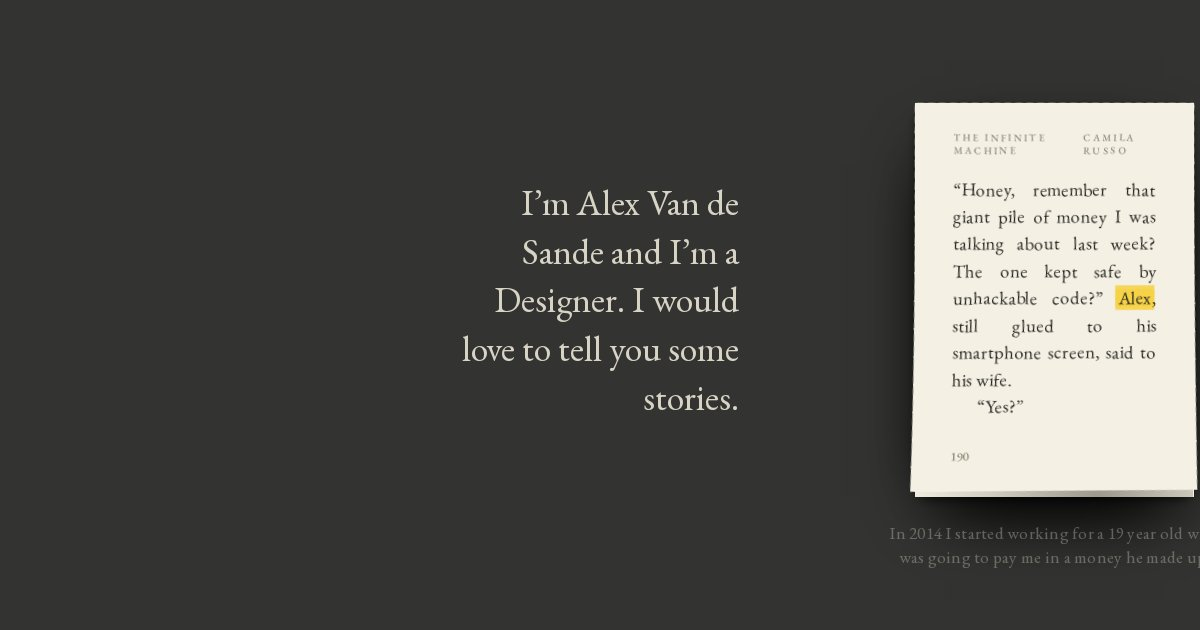
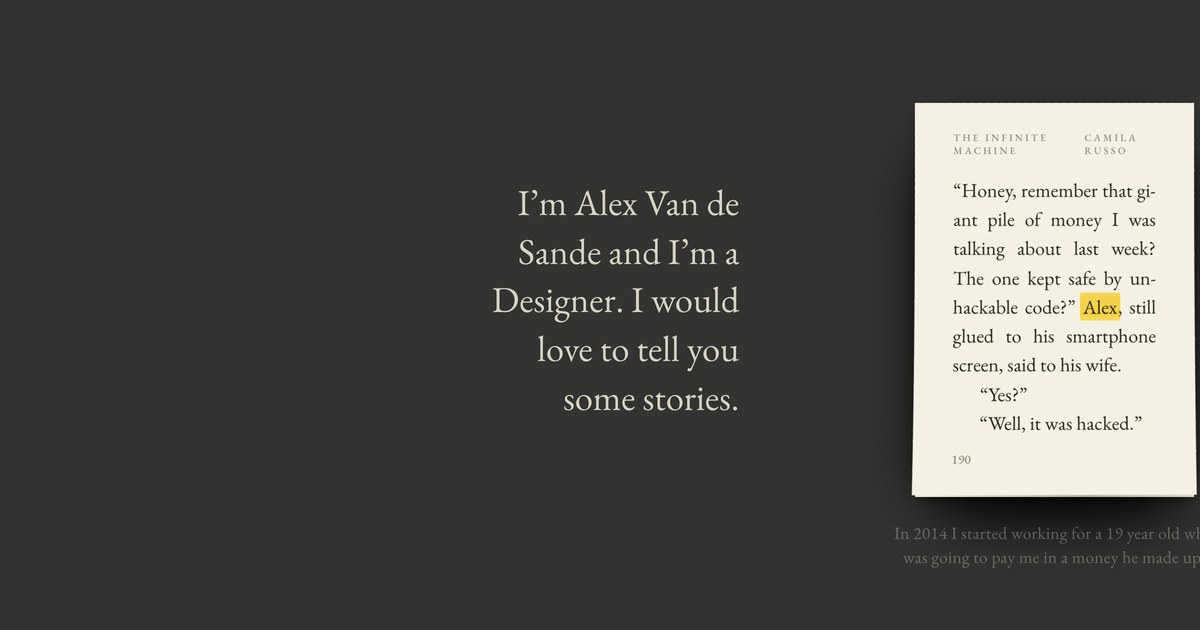
Links to the site and the blog show a screenshot of each
og_images.py takes them, 1200 by 630: site/img/share.jpg and the blog's
assets/share.jpg, which every blog page without a cover now shows.

diff --git a/og_images.py b/og_images.py
@@ -1,0 +1,62 @@
+"""The pictures a link to the site or the blog shows: a screenshot of each,
+as it is first seen, 1200 by 630.
+
+    python3 og_images.py
+
+Serves the site and the blog for a moment, looks at each in Chrome, and
+writes site/img/share.jpg and blog/_assets/share.jpg. Taken at twice the
+size and brought down, so the type stays crisp. The blog's index shows the
+newest posts, so take it again now and then.
+"""
+import os
+import subprocess
+import sys
+import tempfile
+import time
+import urllib.request
+
+from PIL import Image
+from playwright.sync_api import sync_playwright
+
+HERE = os.path.dirname(os.path.abspath(__file__))
+W, H = 1200, 630
+SHOTS = [  # what to serve, where it is then, where its picture goes
+    (["serve.py", "8875"], "http://localhost:8875/", "site/img/share.jpg"),
+    (["blog/build.py", "--quick", "--out", tempfile.mkdtemp(), "--serve", "8876"], "http://localhost:8876/", "blog/_assets/share.jpg"),
+]
+
+
+def up(url, wait=120):
+    end = time.time() + wait
+    while time.time() < end:
+        try:
+            urllib.request.urlopen(url, timeout=2)
+            return
+        except OSError:
+            time.sleep(0.5)
+    sys.exit(f"{url} never came up")
+
+
+def main():
+    servers = [subprocess.Popen([sys.executable, *args], cwd=HERE, stdout=subprocess.DEVNULL, stderr=subprocess.DEVNULL) for args, _, _ in SHOTS]
+    try:
+        with sync_playwright() as pw:
+            browser = pw.chromium.launch(channel="chrome")
+            page = browser.new_page(viewport={"width": W, "height": H}, device_scale_factor=2, color_scheme="dark")
+            for _, url, out in SHOTS:
+                up(url)
+                page.goto(url, wait_until="networkidle")
+                page.wait_for_timeout(2500)          # the fonts and the first animation settle
+                tmp = os.path.join(HERE, out + ".png")
+                page.screenshot(path=tmp)
+                Image.open(tmp).convert("RGB").resize((W, H), Image.LANCZOS).save(os.path.join(HERE, out), quality=88, optimize=True, progressive=True)
+                os.remove(tmp)
+                print(out)
+            browser.close()
+    finally:
+        for s in servers:
+            s.terminate()
+
+
+if __name__ == "__main__":
+    main()

diff --git a/blog/build.py b/blog/build.py
@@ -34,6 +34,9 @@ SITE_URL = "https://blog.vandesande.design"
 TITLE = "Alex Van de Sande's wandering about"
 AUTHOR = "Alex Van de Sande"
 HOME = "https://vandesande.design"
+# what a link to the blog shows when the page has no cover of its own: a
+# picture of the index, taken by og_images.py at the top of the folder
+SHARE = SITE_URL + "/assets/share.jpg"
 COLUMN = 704                  # the text column, in CSS pixels: what Paragraph had
 WIDTHS = (480, 704, 1056, 1408, 2112)
 VIDEOS = (".mp4", ".webm")    # copied as they are, beside the pictures
@@ -564,8 +567,9 @@ def page(base, title, body, *, description="", canonical="", image="", kind="web
         og.append(f'<meta property="og:description" content="{esc(description)}">')
     if canonical:
         og.append(f'<meta property="og:url" content="{esc(canonical)}">')
-    if image:
-        og += [f'<meta property="og:image" content="{esc(image)}">', '<meta name="twitter:card" content="summary_large_image">']
+    og += [f'<meta property="og:image" content="{esc(image or SHARE)}">', '<meta name="twitter:card" content="summary_large_image">']
+    if not image:
+        og += ['<meta property="og:image:width" content="1200">', '<meta property="og:image:height" content="630">']
     return f"""<!DOCTYPE html>
 <html lang="en">
 <head>
